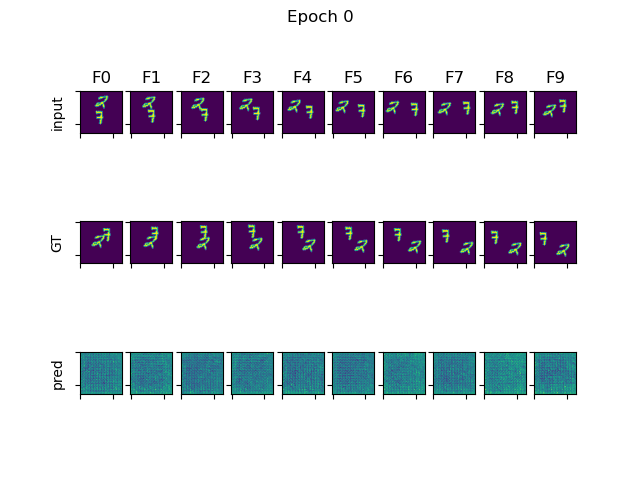
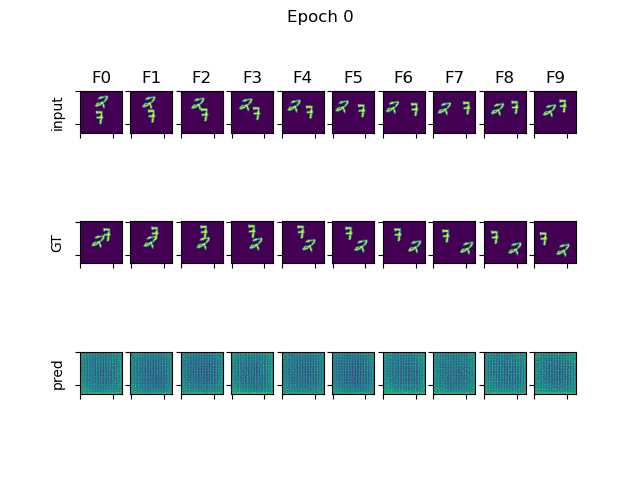
simvp updates

Changed region(s): [[0.125, 0.7188, 0.9062, 0.8438]]

diff --git a/gan/models/simvp/simvp/model.py b/gan/models/simvp/simvp/model.py
@@ -41,18 +41,18 @@ class Decoder(nn.Module):
         self.dec = nn.Sequential(
             ConvSC(C_hid * 2 + hid_T, hid_T, stride=strides[0], transpose=True),
             *[ConvSC(hid_T, hid_T, stride=s, transpose=True) for s in strides[1:-1]],
-            ConvSC(hid_T, C_hid, stride=strides[-1], transpose=True),
+            ConvSC(hid_T + C_hid, C_hid, stride=strides[-1], transpose=True),
         )
         self.readout = nn.Conv2d(C_hid, C_out, 1)
 
-    def forward(self, hid, skip_before=None, skilp_all=None, skip_first=None):
+    def forward(self, hid, skip_before=None, skilp_all=None, skip_last=None):
         # ipdb.set_trace()
         # noise = torch.randn_like(hid)
         hid = torch.cat([hid, skilp_all, skip_before], dim=1)
-        for i in range(0, len(self.dec)):
+        for i in range(0, len(self.dec) - 1):
             hid = self.dec[i](hid)
-        # Y = self.dec[-1](torch.cat([hid, skip_first], dim=1))
-        Y = self.readout(hid)
+        Y = self.dec[-1](torch.cat([hid, skip_last], dim=1))
+        Y = self.readout(Y)
         return Y
 
 
@@ -232,7 +232,7 @@ class SimVP(nn.Module):
         outs = []
         embed = self.enc.skip(x_raw[:, -1 if future else 0, ...])
         embed = self.pos_emb(embed, T if future else 0)
-        skip_first = None  # self.enc.skip_first(x_raw[:, -1 if future else 0, ...])
+        skip_first = self.enc.skip_first(x_raw[:, -1 if future else 0, ...])
         # skip_first = self.pos_emb(skip_first, T if future else 0)
 
         if future:
@@ -246,7 +246,7 @@ class SimVP(nn.Module):
                 # ipdb.set_trace()
                 embed = self.enc.skip(out)
                 embed = self.pos_emb(embed, T + i + 1)
-                # skip_first = self.enc.skip_first(out)
+                skip_first = self.enc.skip_first(out)
         else:
             for i in range(T - 1, -1, -1):
                 input = self.pos_emb(hid[:, i, ...], i)
@@ -256,6 +256,7 @@ class SimVP(nn.Module):
                 z = torch.cat([x[:B, :1, ...], out], 1)
                 # z = self.embed(out, future)
                 embed = self.enc.skip(z)
+                
 
             # reverse outs array
             # ipdb.set_trace()

diff --git a/gan/models/simvp/base_model.py b/gan/models/simvp/base_model.py
@@ -21,6 +21,7 @@ class BaseRegressionModel(LightningModule):
         loss = t.nn.MSELoss()
         self.loss = lambda x, y: loss(x.flatten(), y.flatten())  # t.nn.MSELoss()
         self.mse_metric = torchmetrics.MeanSquaredError()
+        self.ssim = mate.metrics.MovingSSIM()
         self.sum_mse = t.nn.MSELoss(reduction="sum")
 
         # self.denorm_mse = mate.DenormMSE()
@@ -56,6 +57,7 @@ class BaseRegressionModel(LightningModule):
         self.log("val_loss", avg_loss, prog_bar=True)
         self.log("val_sum_mse", avg_sum_mse, prog_bar=True)
 
+
         return {"val_mse": avg_loss}
 
     def training_epoch_end(self, outputs):
@@ -76,8 +78,6 @@ class BaseRegressionModel(LightningModule):
         y = y.cpu()
         pred_y = self(x).cpu()
         loss = F.mse_loss(pred_y, y)
-        # sum_mse = self.mse_sum_loss(pred_y, y)
-        # self.log("val_mse", loss, prog_bar=True)
         sum_mse = F.mse_loss(pred_y, y, reduction="sum")
         return {"val_mse": loss, "val_loss": loss, "val_sum_mse": sum_mse}
 
@@ -94,6 +94,9 @@ class BaseRegressionModel(LightningModule):
             )
 
         pred_y = self(x)
+
+        self.ssim.update(y, pred_y)
+
         # se = F.mse_loss(pred_y, y, reduction="sum")
         self.mse_metric.update(y, pred_y)
         sum_mse = F.mse_loss(pred_y, y, reduction="sum")
@@ -105,6 +108,11 @@ class BaseRegressionModel(LightningModule):
         self.log("test_mse", loss, prog_bar=True)
         self.mse_metric.reset()
         self.log("test_sum_mse", avg_test_mse, prog_bar=True)
+
+        ssim = self.ssim.compute()
+        self.log("test_ssim", ssim, prog_bar=True)
+        self.ssim.reset()
+
         return {"test_mse": loss}
 
     def configure_optimizers(self):
